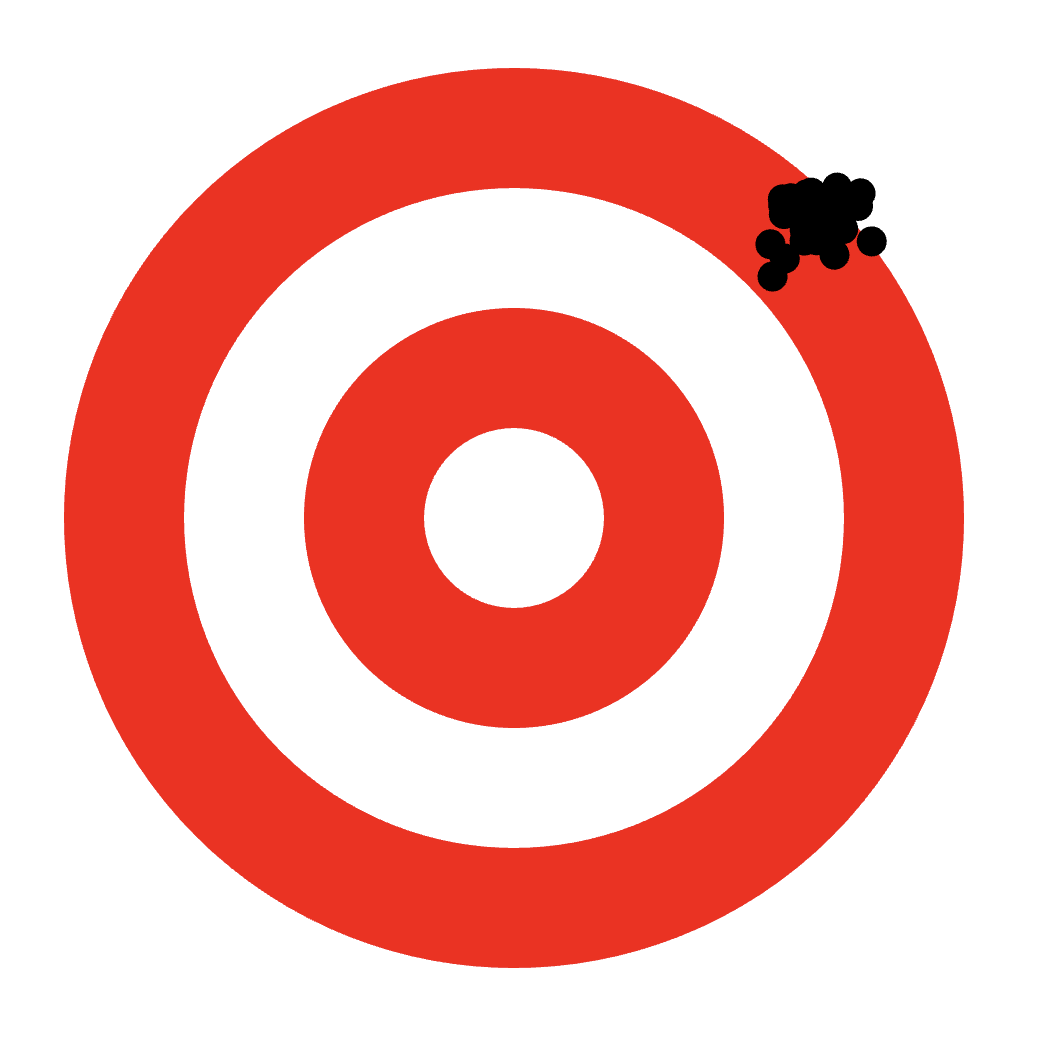
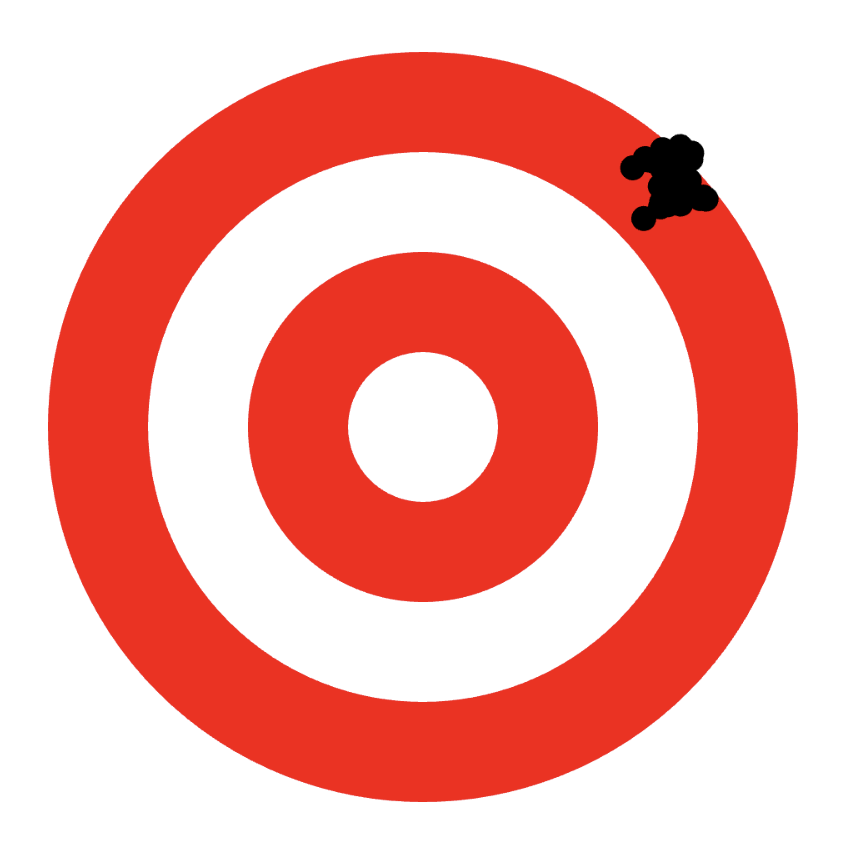
ok

diff --git a/slides/1015scg/sketches/accuracy-precision/per-case.js b/slides/1015scg/sketches/accuracy-precision/per-case.js
@@ -76,7 +76,7 @@ function drawCase(cx, cy, label, type) {
   if (type === "high_low") {
     for (let i = 0; i < 35; i++) {
       let angle = random(TWO_PI);
-      let r = random(30, 110);
+      let r = random(10, 90);
       points.push([
         r * cos(angle),
         r * sin(angle)

diff --git a/slides/1015scg/sketches/accuracy-precision/sketch.js b/slides/1015scg/sketches/accuracy-precision/sketch.js
@@ -53,7 +53,7 @@ function drawCase(cx, cy, label, type) {
   if (type === "high_low") {
     for (let i = 0; i < 25; i++) {
       let angle = random(TWO_PI);
-      let r = random(15, 50);
+      let r = random(8, 35);
       points.push([
         r * cos(angle),
         r * sin(angle)
